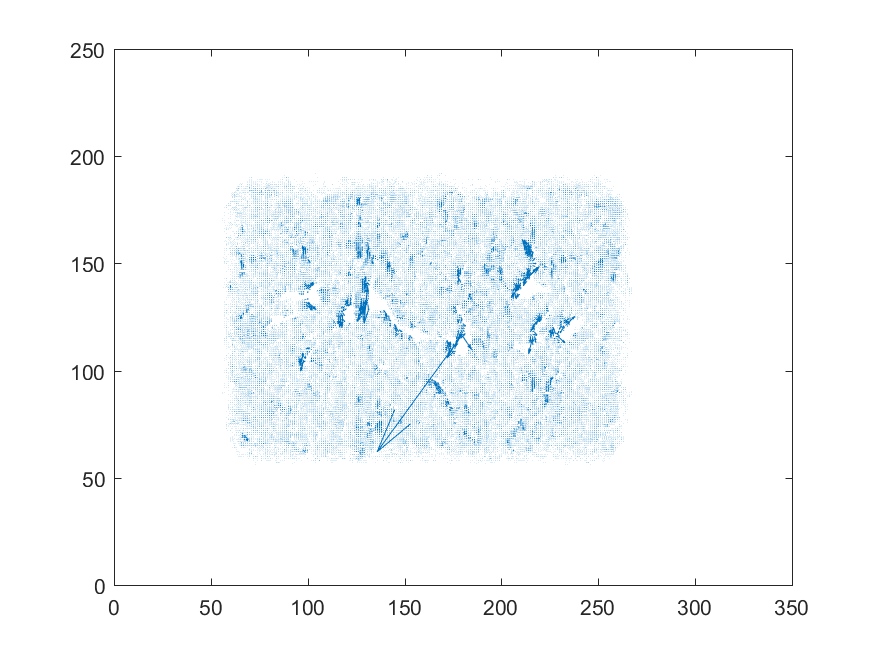
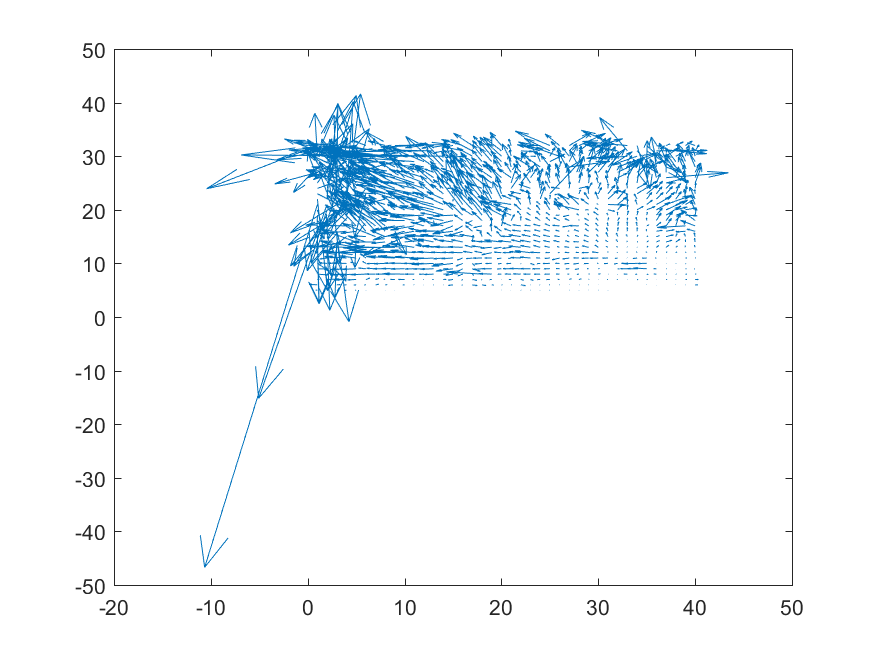
finished 3 off PS5

diff --git a/ProblemSets/ps5/ps5.m b/ProblemSets/ps5/ps5.m
@@ -1,18 +1,18 @@
-% close all;
-% TestSeq(:,:,1) = imread(fullfile('input', 'TestSeq', 'Shift0.png'));
-% TestSeq(:,:,2) = imread(fullfile('input', 'TestSeq', 'ShiftR2.png'));
-% TestSeq(:,:,3) = imread(fullfile('input', 'TestSeq', 'ShiftR5U5.png'));
-% TestSeq(:,:,4) = imread(fullfile('input', 'TestSeq', 'ShiftR10.png'));
-% TestSeq(:,:,5) = imread(fullfile('input', 'TestSeq', 'ShiftR20.png'));
-% TestSeq(:,:,6) = imread(fullfile('input', 'TestSeq', 'ShiftR40.png'));
-% 
-% DataSeq1(:,:,1) = imread(fullfile('input', 'DataSeq1', 'yos_img_01.jpg'));
-% DataSeq1(:,:,2) = imread(fullfile('input', 'DataSeq1', 'yos_img_02.jpg'));
-% DataSeq1(:,:,3) = imread(fullfile('input', 'DataSeq1', 'yos_img_03.jpg'));
-% 
-% DataSeq2(:,:,:,1) = imread(fullfile('input', 'DataSeq2', '0.png'));
-% DataSeq2(:,:,:,2) = imread(fullfile('input', 'DataSeq2', '1.png'));
-% DataSeq2(:,:,:,3) = imread(fullfile('input', 'DataSeq2', '2.png'));
+close all;
+TestSeq(:,:,1) = imread(fullfile('input', 'TestSeq', 'Shift0.png'));
+TestSeq(:,:,2) = imread(fullfile('input', 'TestSeq', 'ShiftR2.png'));
+TestSeq(:,:,3) = imread(fullfile('input', 'TestSeq', 'ShiftR5U5.png'));
+TestSeq(:,:,4) = imread(fullfile('input', 'TestSeq', 'ShiftR10.png'));
+TestSeq(:,:,5) = imread(fullfile('input', 'TestSeq', 'ShiftR20.png'));
+TestSeq(:,:,6) = imread(fullfile('input', 'TestSeq', 'ShiftR40.png'));
+
+DataSeq1(:,:,1) = imread(fullfile('input', 'DataSeq1', 'yos_img_01.jpg'));
+DataSeq1(:,:,2) = imread(fullfile('input', 'DataSeq1', 'yos_img_02.jpg'));
+DataSeq1(:,:,3) = imread(fullfile('input', 'DataSeq1', 'yos_img_03.jpg'));
+
+DataSeq2(:,:,:,1) = imread(fullfile('input', 'DataSeq2', '0.png'));
+DataSeq2(:,:,:,2) = imread(fullfile('input', 'DataSeq2', '1.png'));
+DataSeq2(:,:,:,3) = imread(fullfile('input', 'DataSeq2', '2.png'));
 % 
 % %% 1
 % [Ix, Iy, It] = computeGradients(TestSeq(:, :, 1), TestSeq(:, :, 2));
@@ -45,12 +45,40 @@
 % quiver(u,v,50);
 % saveas(f, fullfile('output', 'ps5-1-b-3.png'));
 
-%% 2a
-G0 = double(DataSeq1(:,:,1));
-G1 = reduce(G0);
-G2 = reduce(G1);
-G3 = reduce(G2);
+%% 2
+gauss_pyr = gaussPyramid(double(DataSeq1(:,:,1)),3);
+lapl_pyr = laplacePyramid(gauss_pyr);
 
-%% 2b
-E0 = double(DataSeq1(:,:,1));
-E1 = expand(E0);
+%% 3
+
+% create Gauss pyramid for every frame
+for i = 1:size(DataSeq1,3)
+    gauss_pyr(i,:) = gaussPyramid(double(DataSeq1(:,:,i)),3);
+end
+
+% frame 1 to frame 2
+for i = 1:size(gauss_pyr,2)
+    [Ix, Iy, It] = computeGradients(gauss_pyr{1,i}, gauss_pyr{2,i});
+    [u, v] = computeLK(Ix, Iy, It, 7);
+    f = figure;
+    quiver(u,v,50);
+    saveas(f, fullfile('output', ['ps5-3-a-1-' num2str(i) '.png']));
+    warpedFrame = warp(gauss_pyr{2,i},u,v);
+    ogFrame = gauss_pyr{1,i};
+    diff = uint8(abs(ogFrame - warpedFrame));
+    imwrite(diff, fullfile('output', ['ps5-3-a-2-' num2str(i) '.png']));
+end
+close all;
+% frame 2 to frame 3
+for i = 1:size(gauss_pyr,2)
+    [Ix, Iy, It] = computeGradients(gauss_pyr{2,i}, gauss_pyr{3,i});
+    [u, v] = computeLK(Ix, Iy, It, 7);
+    f = figure;
+    quiver(u,v,50);
+    saveas(f, fullfile('output', ['ps5-3-a-3-' num2str(i) '.png']));
+    warpedFrame = warp(gauss_pyr{2,i},u,v);
+    ogFrame = gauss_pyr{3,i};
+    diff = uint8(abs(ogFrame - warpedFrame));
+    imwrite(diff, fullfile('output', ['ps5-3-a-4-' num2str(i) '.png']));
+end
+

diff --git a/ProblemSets/ps5/warp.m b/ProblemSets/ps5/warp.m
@@ -1,0 +1,13 @@
+function [warpI2]=warp(i2,vx,vy) 
+        % warp i2 according to flow field in vx vy 
+        % this is a "backwards" warp: 
+        % if vx,vy are correct then warpI2==i1
+        [M,N]=size(i2);
+        [x,y]=meshgrid(1:N,1:M);
+        %use Matlab interpolation routine
+        warpI3=interp2(x,y,i2,x+vx,y+vy,'*nearest');
+        %use Matlab interpolation routine
+        warpI2=interp2(x,y,i2,x+vx,y+vy,'*linear');
+        I=find(isnan(warpI2)); 
+        warpI2(I)=warpI3(I);
+end

diff --git a/ProblemSets/ps5/laplacePyramid.m b/ProblemSets/ps5/laplacePyramid.m
@@ -1,0 +1,17 @@
+function lapl_pyr = laplacePyramid( gauss_pyr )
+%LAPLACEPYRAMID Summary of this function goes here
+%   Detailed explanation goes here
+    lapl_pyr = {};
+    for i = 1:size(gauss_pyr,2)-1
+        G = gauss_pyr{1,i};
+        E = expand(gauss_pyr{1,i+1});
+        if size(E,1) > size(G,1);
+            E = E(1:end-1,:);
+        end
+        if size(E,2) > size(G,2)
+            E = E(:,1:end-1);
+        end
+        lapl_pyr{i} = G - E;
+    end
+end
+

diff --git a/ProblemSets/ps5/gaussPyramid.m b/ProblemSets/ps5/gaussPyramid.m
@@ -1,0 +1,12 @@
+function gauss_pyr = gaussPyramid(img, levels)
+%GAUSSPYRAMID Summary of this function goes here
+%   Detailed explanation goes here
+    gauss_pyr = {};
+    gauss_pyr{1} = img;
+    tmp = img;
+    for i = 1:levels
+        tmp = reduce(tmp);
+        gauss_pyr{i+1} = tmp;
+    end
+end
+
